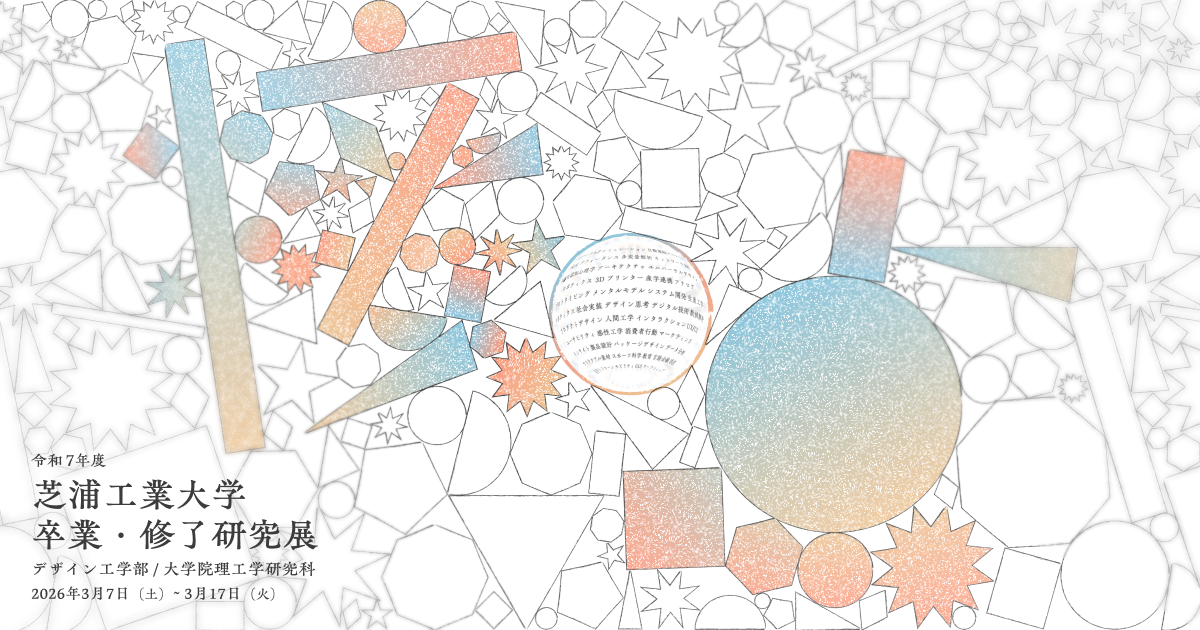
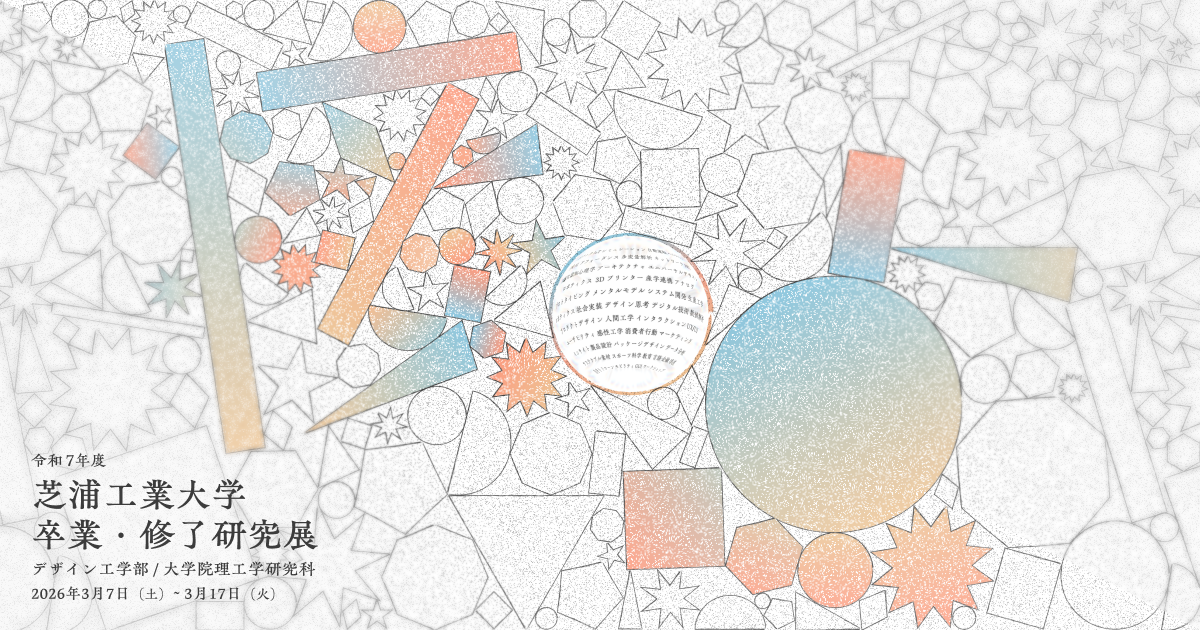
プレビュー画像の差し替え

diff --git a/app/events/exhibitions/[id]/ExhibitionDetailClient.tsx b/app/events/exhibitions/[id]/ExhibitionDetailClient.tsx
@@ -1,0 +1,277 @@
+"use client"
+
+import { useEffect, useMemo, useState } from "react"
+import Link from "next/link"
+
+import Footer from "../../../components/Footer"
+import NavigationMenu from "../../../components/NavigationMenu"
+import { SkeletonLoader } from "../../../components/SkeletonLoader"
+
+type ExhibitionDetailClientProps = {
+  id: string
+}
+
+type Exhibition = {
+  id: string
+  title?: string | null
+  description?: string | null
+  author?: string | null
+  image_url?: string | null
+  image_thumb_url?: string | null
+}
+
+type SkeletonBlockProps = {
+  className?: string
+}
+
+const SkeletonBlock = ({ className = "" }: SkeletonBlockProps) => {
+  // ローディング時のプレースホルダーを統一するための簡易スケルトンです。
+  return (
+    <div className={`relative overflow-hidden bg-[#f0f2f3] ${className}`}>
+      <div className="absolute inset-0 skeleton-shimmer bg-linear-to-r from-transparent via-white/30 to-transparent" />
+    </div>
+  )
+}
+
+const PLACEHOLDER_BODY =
+  "これはダミー文章です。体験展示の狙いや体験内容をここに記載します。"
+
+const menuItems = [
+  { id: "top", label: "TOP", href: "/" },
+  { id: "research", label: "研究紹介", href: "/research" },
+  { id: "works", label: "作品紹介", href: "/research?tab=works" },
+  { id: "career", label: "卒業生の進路", href: "/career" },
+  { id: "events", label: "イベント", href: "/events" },
+  { id: "contact", label: "お問い合わせ", href: "/contact" },
+]
+
+const isAbsoluteUrl = (value?: string | null) => {
+  return !!value && /^https?:\/\//i.test(value)
+}
+
+const pickOriginalImage = (original?: string | null, thumb?: string | null) => {
+  // 詳細ページは元画像を優先し、相対パスしかない場合は絶対URLを選ぶ
+  if (isAbsoluteUrl(original)) return original
+  if (isAbsoluteUrl(thumb)) return thumb
+  return original || thumb || null
+}
+
+export default function ExhibitionDetailClient({
+  id,
+}: ExhibitionDetailClientProps) {
+  const [isMenuOpen, setIsMenuOpen] = useState(false)
+  const [exhibitions, setExhibitions] = useState<Exhibition[]>([])
+  const [loading, setLoading] = useState(true)
+  const [error, setError] = useState<string | null>(null)
+
+  useEffect(() => {
+    let active = true
+
+    const load = async () => {
+      try {
+        setLoading(true)
+        setError(null)
+
+        const exhibitionRes = await fetch("/api/events/exhibitions")
+
+        if (!exhibitionRes.ok) {
+          throw new Error("Failed to fetch exhibition detail data.")
+        }
+
+        const exhibitionData = await exhibitionRes.json()
+
+        if (!active) return
+
+        setExhibitions(Array.isArray(exhibitionData) ? exhibitionData : [])
+      } catch (fetchError) {
+        if (!active) return
+        const message =
+          fetchError instanceof Error
+            ? fetchError.message
+            : "Failed to fetch exhibition detail data."
+        setError(message)
+      } finally {
+        if (active) setLoading(false)
+      }
+    }
+
+    load()
+
+    return () => {
+      active = false
+    }
+  }, [])
+
+  const exhibition = useMemo(() => {
+    // CSV由来のIDに空白が混入している場合でも一致するように正規化する
+    const normalizedId = id.trim()
+    return (
+      exhibitions.find((item) => (item.id ?? "").trim() === normalizedId) ??
+      null
+    )
+  }, [exhibitions, id])
+
+  const exhibitionImage = pickOriginalImage(
+    exhibition?.image_url,
+    exhibition?.image_thumb_url,
+  )
+
+  return (
+    // 詳細ページの背景は作品・研究と揃えて白に統一します。
+    <div className="mx-auto flex w-full max-w-[393px] flex-col bg-white pb-16">
+      {isMenuOpen ? (
+        // メニュー展開時も白背景で統一し、トーンがぶれないようにします。
+        <div className="fixed inset-0 z-50 flex justify-center bg-white">
+          <NavigationMenu
+            items={menuItems}
+            activeId="events"
+            onClose={() => setIsMenuOpen(false)}
+          />
+        </div>
+      ) : null}
+
+      <div className="flex items-center justify-between px-4 pt-6">
+        <div className="flex items-center gap-3">
+          <span className="h-6 w-2 rounded-[4px] bg-gradient-to-b from-[#FB9678] to-[#E5A967]" />
+          <h1 className="text-[24px] font-extrabold tracking-[0.04em] text-[#2E3437] [font-family:var(--font-shippori-mincho-b1),'Hiragino_Mincho_ProN',serif]">
+            イベント
+          </h1>
+        </div>
+        {/* メニューボタンはスクロール中も右上に追従させ、コンテンツの右端に揃えます。 */}
+        <div className="fixed inset-x-0 top-0 z-40 flex justify-center pointer-events-none">
+          <div className="flex w-full max-w-[393px] justify-end px-4 pt-6 pointer-events-auto">
+            <button
+              className="grid h-12 w-12 place-items-center rounded-full bg-white shadow-[0_0_8px_rgba(106,115,120,0.15)]"
+              type="button"
+              aria-label="メニュー"
+              onClick={() => setIsMenuOpen(true)}
+            >
+              <svg
+                aria-hidden="true"
+                className="h-8 w-8"
+                viewBox="0 0 24 24"
+                fill="none"
+              >
+                <path
+                  d="M4 7H20M4 12H20M4 17H20"
+                  stroke="#6A7378"
+                  strokeWidth="2"
+                  strokeLinecap="round"
+                />
+              </svg>
+            </button>
+          </div>
+        </div>
+      </div>
+
+      {/* 戻るボタンはイベント一覧に戻る導線として表示します。 */}
+      <Link
+        href="/events"
+        className="flex h-20 items-center gap-2 px-4 text-[13px] font-medium text-[#6A7378]"
+      >
+        <svg
+          aria-hidden="true"
+          className="h-4 w-4"
+          viewBox="0 0 24 24"
+          fill="none"
+        >
+          <path
+            d="M15 6L9 12L15 18"
+            stroke="#6A7378"
+            strokeWidth="2"
+            strokeLinecap="round"
+            strokeLinejoin="round"
+          />
+        </svg>
+        戻る
+      </Link>
+
+      {error ? (
+        <div className="px-4 pb-12">
+          <div className="rounded-2xl border border-red-200 bg-red-50 p-6 text-sm text-red-600">
+            {error}
+          </div>
+        </div>
+      ) : !exhibition && !loading ? (
+        <div className="px-4 pb-12">
+          <div className="rounded-2xl border border-[#EBEEF0] bg-white p-10 text-center text-sm text-[#6A7378]">
+            対象の体験展示が見つかりませんでした。
+          </div>
+        </div>
+      ) : (
+        <section className="px-4 pb-12">
+          <div className="flex flex-col gap-4">
+            <div className="space-y-1">
+              {loading ? (
+                <>
+                  <SkeletonBlock className="h-7 w-4/5 rounded-md" />
+                  <div className="flex justify-end">
+                    <SkeletonBlock className="h-4 w-24 rounded-md" />
+                  </div>
+                </>
+              ) : (
+                <>
+                  <h2 className="text-[24px] font-extrabold leading-[1.5] tracking-[0.02em] text-[#2E3437] [font-family:var(--font-shippori-mincho-b1),'Hiragino_Mincho_ProN',serif]">
+                    {exhibition?.title ?? "体験展示タイトル"}
+                  </h2>
+                  <div className="flex justify-end text-[13px] font-medium leading-[1.5] text-[#4B5459]">
+                    {exhibition?.author ?? "苗字 名前"}
+                  </div>
+                </>
+              )}
+            </div>
+
+            {loading ? (
+              <div className="space-y-2">
+                <SkeletonBlock className="h-4 w-full rounded-md" />
+                <SkeletonBlock className="h-4 w-11/12 rounded-md" />
+                <SkeletonBlock className="h-4 w-10/12 rounded-md" />
+              </div>
+            ) : (
+              <p className="text-[15px] leading-[2.2] tracking-[0.04em] text-[#4B5459]">
+                {exhibition?.description ?? PLACEHOLDER_BODY}
+              </p>
+            )}
+
+            <div className="relative h-[204px] w-full overflow-hidden rounded-[4px] bg-[#EBEEF0]">
+              {loading ? (
+                <SkeletonBlock className="absolute inset-0" />
+              ) : exhibitionImage ? (
+                <SkeletonLoader
+                  src={exhibitionImage}
+                  alt=""
+                  className="h-full w-full"
+                  fallback={
+                    <div className="absolute inset-0 grid place-items-center text-[12px] text-[#A3ADB2]">
+                      No Image
+                    </div>
+                  }
+                />
+              ) : (
+                <div className="absolute inset-0 grid place-items-center text-[12px] text-[#A3ADB2]">
+                  No Image
+                </div>
+              )}
+            </div>
+
+            <div className="flex justify-center pt-4">
+              <Link
+                href="/events"
+                className="flex items-center gap-2 rounded-full border border-[#A3ADB2] px-8 py-4 text-[13px] font-medium text-[#4B5459] shadow-[0_0_8px_rgba(106,115,120,0.15)]"
+              >
+                一覧へ戻る
+                <img
+                  src="/icon/signal_cellular_alt.svg"
+                  alt=""
+                  className="h-3 w-3"
+                />
+              </Link>
+            </div>
+          </div>
+        </section>
+      )}
+
+      <Footer className="mt-8 w-full px-4" />
+    </div>
+  )
+}

diff --git a/app/events/EventsClient.tsx b/app/events/EventsClient.tsx
@@ -1,6 +1,7 @@
 "use client"
 
 import { useEffect, useMemo, useState } from "react"
+import Link from "next/link"
 
 import Footer from "../components/Footer"
 import NavigationMenu from "../components/NavigationMenu"
@@ -248,7 +249,9 @@ export default function EventsClient() {
   }
 
   return (
-    <div className="relative mx-auto flex w-full max-w-[393px] flex-col bg-[#F9F9F9] pb-16">
+    // ページ外側の白背景を避けるため、イベントページ全体を薄いグレーで塗ります。
+    <div className="min-h-screen bg-[#F9F9F9]">
+      <div className="relative mx-auto flex w-full max-w-[393px] flex-col bg-[#F9F9F9] pb-16">
       {/* 右上メニューは既存ページと同じUIを使い回し、統一感を保ちます。 */}
       {isMenuOpen ? (
         <div className="fixed inset-0 z-50 flex justify-center bg-[#F9F9F9]">
@@ -475,29 +478,38 @@ export default function EventsClient() {
                   </article>
                 ))
               : exhibitions.map((card) => (
-                  <article key={card.id} className="space-y-2">
-                    <div className="aspect-video overflow-hidden rounded-[4px]">
-                      <img
-                        src={card.image}
-                        alt=""
-                        className="h-full w-full object-cover"
-                      />
-                    </div>
-                    <div className="space-y-1 text-[12px]">
-                      {/* Tailwindのline-clamp依存を避け、2行省略はインラインで指定します。 */}
-                      <p
-                        className="h-[36px] overflow-hidden text-[#4B5459]"
-                        style={{
-                          display: "-webkit-box",
-                          WebkitLineClamp: 2,
-                          WebkitBoxOrient: "vertical",
-                        }}
-                      >
-                        {card.title}
-                      </p>
-                      <p className="text-right text-[#6A7378]">{card.author}</p>
-                    </div>
-                  </article>
+                  <Link
+                    key={card.id}
+                    // 体験展示の詳細ページへ遷移し、カード全体をタップ可能にします。
+                    href={`/events/exhibitions/${card.id}`}
+                    className="block space-y-2"
+                  >
+                    <article>
+                      <div className="aspect-video overflow-hidden rounded-[4px]">
+                        <img
+                          src={card.image}
+                          alt=""
+                          className="h-full w-full object-cover"
+                        />
+                      </div>
+                      <div className="space-y-1 text-[12px]">
+                        {/* Tailwindのline-clamp依存を避け、2行省略はインラインで指定します。 */}
+                        <p
+                          className="h-[36px] overflow-hidden text-[#4B5459]"
+                          style={{
+                            display: "-webkit-box",
+                            WebkitLineClamp: 2,
+                            WebkitBoxOrient: "vertical",
+                          }}
+                        >
+                          {card.title}
+                        </p>
+                        <p className="text-right text-[#6A7378]">
+                          {card.author}
+                        </p>
+                      </div>
+                    </article>
+                  </Link>
                 ))}
           </div>
           {loadError ? (
@@ -508,6 +520,7 @@ export default function EventsClient() {
 
       {/* フッターは既存コンポーネントをそのまま使い回します。 */}
       <Footer />
+      </div>
     </div>
   )
 }

diff --git a/app/events/exhibitions/[id]/page.tsx b/app/events/exhibitions/[id]/page.tsx
@@ -1,0 +1,11 @@
+import ExhibitionDetailClient from "./ExhibitionDetailClient"
+
+type ExhibitionDetailPageProps = {
+  params: { id: string }
+}
+
+export default function ExhibitionDetailPage({
+  params,
+}: ExhibitionDetailPageProps) {
+  return <ExhibitionDetailClient id={params.id} />
+}
